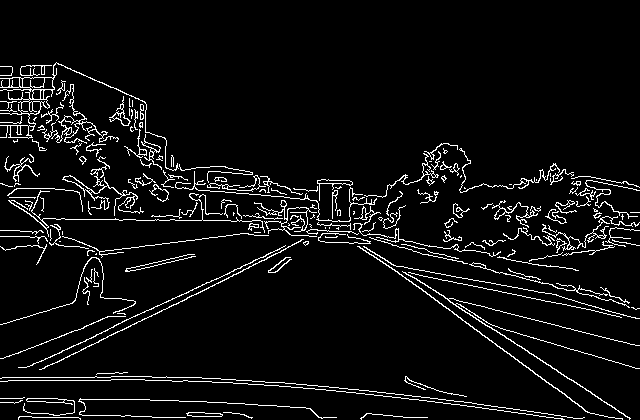
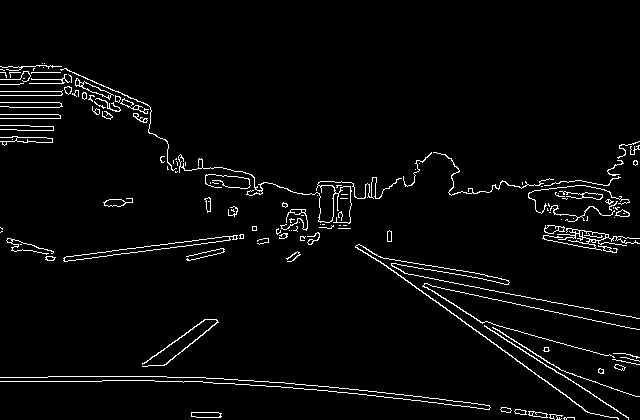
added the line calculation

diff --git a/mobylie/src/research/imgDetector.py b/mobylie/src/research/imgDetector.py
@@ -14,7 +14,7 @@ SENSOR_SIZE = 1 / 2.3
 class Statistics:
     # the data can use another check, but these are the base values I found.
     NOT_IN_DATA_FLAG = -1
-    DATA = {"truck": 2.7, "car": 1.6}  # the avg height of clavicles in meters
+    DATA = {"truck": 2.7, "car": 1.6,"line":3}  # the avg height of clavicles in meters
 
     @staticmethod
     def getHeight(type):
@@ -102,7 +102,7 @@ class imgDetector:
                     signs.append(line)# add to list
 
         if len(self.signArray) > 0:
-            self.compareList(signs, False)
+            self.compareList(signs, False,0.5)
         else:
             self.copySignArr(signs)
 
@@ -121,25 +121,27 @@ class imgDetector:
         posNonZeroCounter = 0
         velNonZeroCounter = 0
         accNonZeroCounter = 0
+        if(len(self.signArray)==0):
+            return
         # adds them up to have the avg
         for sign in self.signArray:
             if sign.distanceBetweenTwoFrames.x != 0 or sign.distanceBetweenTwoFrames.y != 0:
-                sum.position.x += sign.distanceBetweenTwoFrames.x
-                sum.position.y += sign.distanceBetweenTwoFrames.y
+                sum.position.x += (-sign.distanceBetweenTwoFrames.x)
+                sum.position.y += (-sign.distanceBetweenTwoFrames.y)
                 posNonZeroCounter += 1
             if sign.data.velocity.x != 0 or sign.data.velocity.y != 0:
-                sum.velocity.x += sign.data.velocity.x
-                sum.velocity.y += sign.data.velocity.y
+                sum.velocity.x += (-sign.data.velocity.x)
+                sum.velocity.y += (-sign.data.velocity.y)
                 velNonZeroCounter += 1
             if sign.data.aceloration.x != 0 or sign.data.aceloration.y != 0:
-                sum.aceloration.x += sign.data.aceloration.x
-                sum.aceloration.y += sign.data.aceloration.y
+                sum.aceloration.x += (-sign.data.aceloration.x)
+                sum.aceloration.y += (-sign.data.aceloration.y)
                 accNonZeroCounter += 1
         try:
             # calc avg
             if posNonZeroCounter != 0:
-                sum.position.x = sum.position.x / posNonZeroCounter
-                sum.position.y = sum.position.y / posNonZeroCounter
+                sum.position.x += sum.position.x / posNonZeroCounter
+                sum.position.y += sum.position.y / posNonZeroCounter
                 self.ourCar.data.position.x += sum.position.x
                 self.ourCar.data.position.y += sum.position.y
             if velNonZeroCounter != 0:
@@ -151,8 +153,7 @@ class imgDetector:
         except ZeroDivisionError:
             print("devided by zero")
 
-    def compareList(self, temp, carVector):
-        IUO_THRESHOLD = 0.6
+    def compareList(self, temp, carVector,IUO_THRESHOLD = 0.6):
         for tempObj in temp:
             if carVector:
                 for car in self.carArray:

diff --git a/mobylie/src/research/segmentation.py b/mobylie/src/research/segmentation.py
@@ -192,6 +192,7 @@ def region_of_interest(img, vertices):
 
 
     # returning the image only where mask pixels are nonzero
+    #masked_image = cv2.bitwise_or(img, mask)
     masked_image = cv2.bitwise_and(img, mask)
     return masked_image
 
@@ -294,11 +295,11 @@ def dettect(img):
     grayImg=grayscale(whiteYelloImg)
     blurrImg=gaussian_blur(grayImg)
     cannyImg=canny(blurrImg)
-    pointsPolly = np.array([[0, 270],
-                            [0, 360],
-                            [570, 400],
-                            [350, 230],
-                            [270,230]], dtype=np.int32)
+    pointsPolly = np.array([[10, 270],
+                            [10, 340],
+                            [550, 390],
+                            [315, 220],
+                            [240,240]], dtype=np.int32)
     spaceImg=region_of_interest(cannyImg,pointsPolly)
     #lineImg=hough_lines_basic(spaceImg)
     return find_reqtangles(spaceImg, img)
@@ -309,7 +310,7 @@ def dettect(img):
     cv2.imwrite("canny.png",cannyImg)
     cv2.imshow("ragion",spaceImg)
     cv2.imshow("lines",lineImg)
-    cv2.waitKey(100)
+    cv2.waitKey(1000)
     cv2.destroyAllWindows()
     #return find_squre(lineImg, img)
     return find_reqtangles(spaceImg, img)

diff --git a/mobylie/src/research/main.py b/mobylie/src/research/main.py
@@ -61,9 +61,11 @@ def main():
             intBottomRight = (int(bottom_right[0]), int(bottom_right[1]))  # parse from float to int
             cv2.rectangle(loader._img._bgrImg, intTopLeft, intBottomRight, (255, 0, 0), 1)
 
-            text = str(int(car.data.position.x)) + " " \
-                   + str(int(car.data.position.y)) + " " \
-                   + str(int(car.distance))
+            text =(str(car.id)+" " \
+                   #+ str(int(car.data.position.x)) + " " \
+                   #+ str(int(car.data.position.y)) + " " \
+                   #+ str(int(car.distance))
+                   )
             text_position = (intTopLeft[0], intBottomRight[1] - 10)
             font_face = cv2.FONT_HERSHEY_SIMPLEX
             font_scale = 0.5

diff --git a/mobylie/src/research/CCA_model.py b/mobylie/src/research/CCA_model.py
@@ -33,7 +33,7 @@ class cca_model:
     """create the class, calc weight, create prediction"""
 
     def __init__(self, data):
-
+        self.certentry=0
         self.weighTracker = {}
         try:
             Tracker, allData = cca_model.dictToArrays(data)  # create an array from a dict
